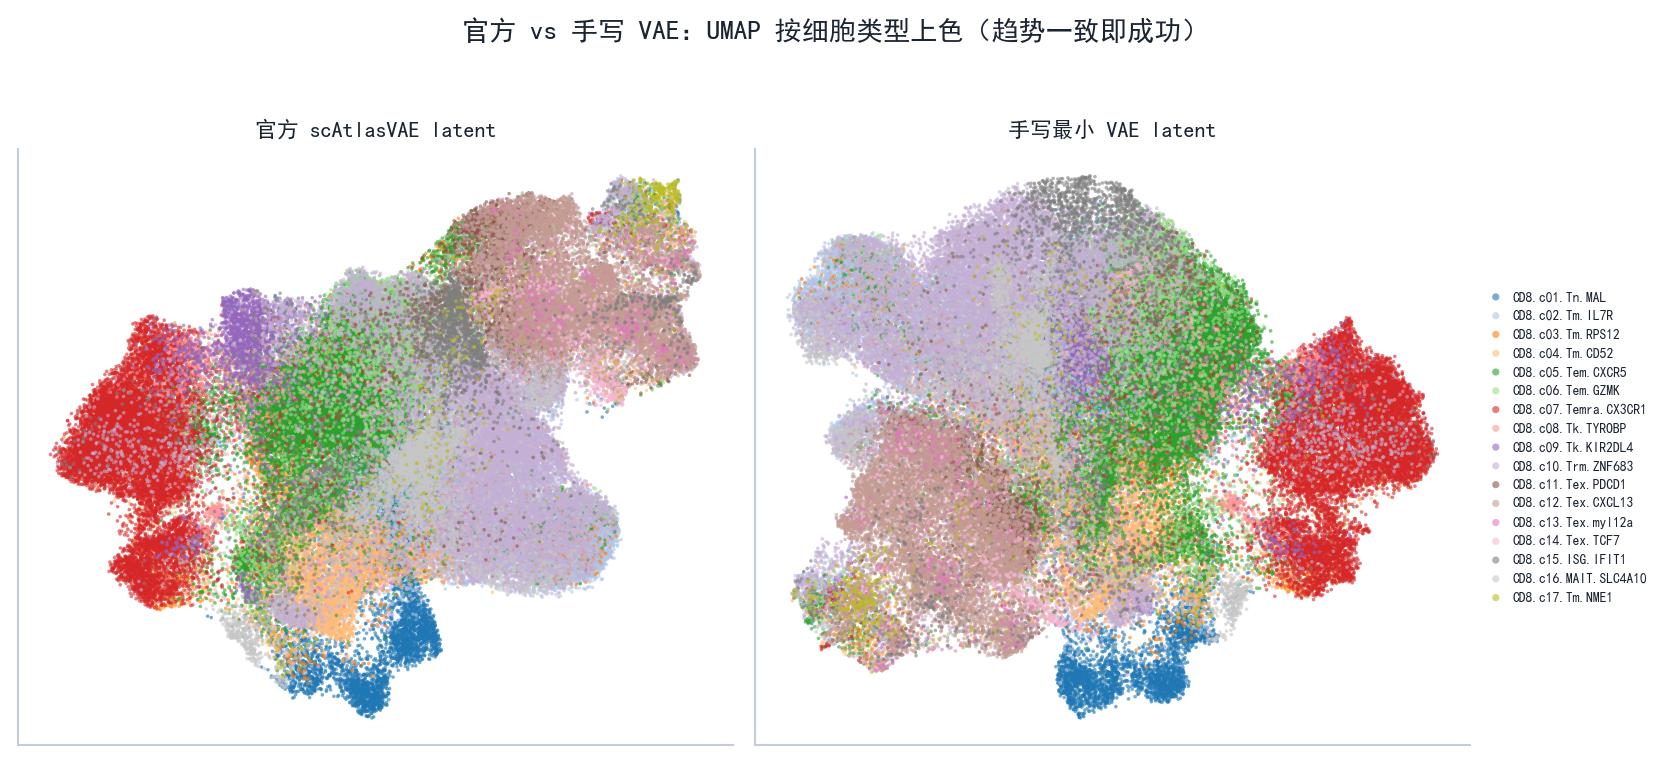
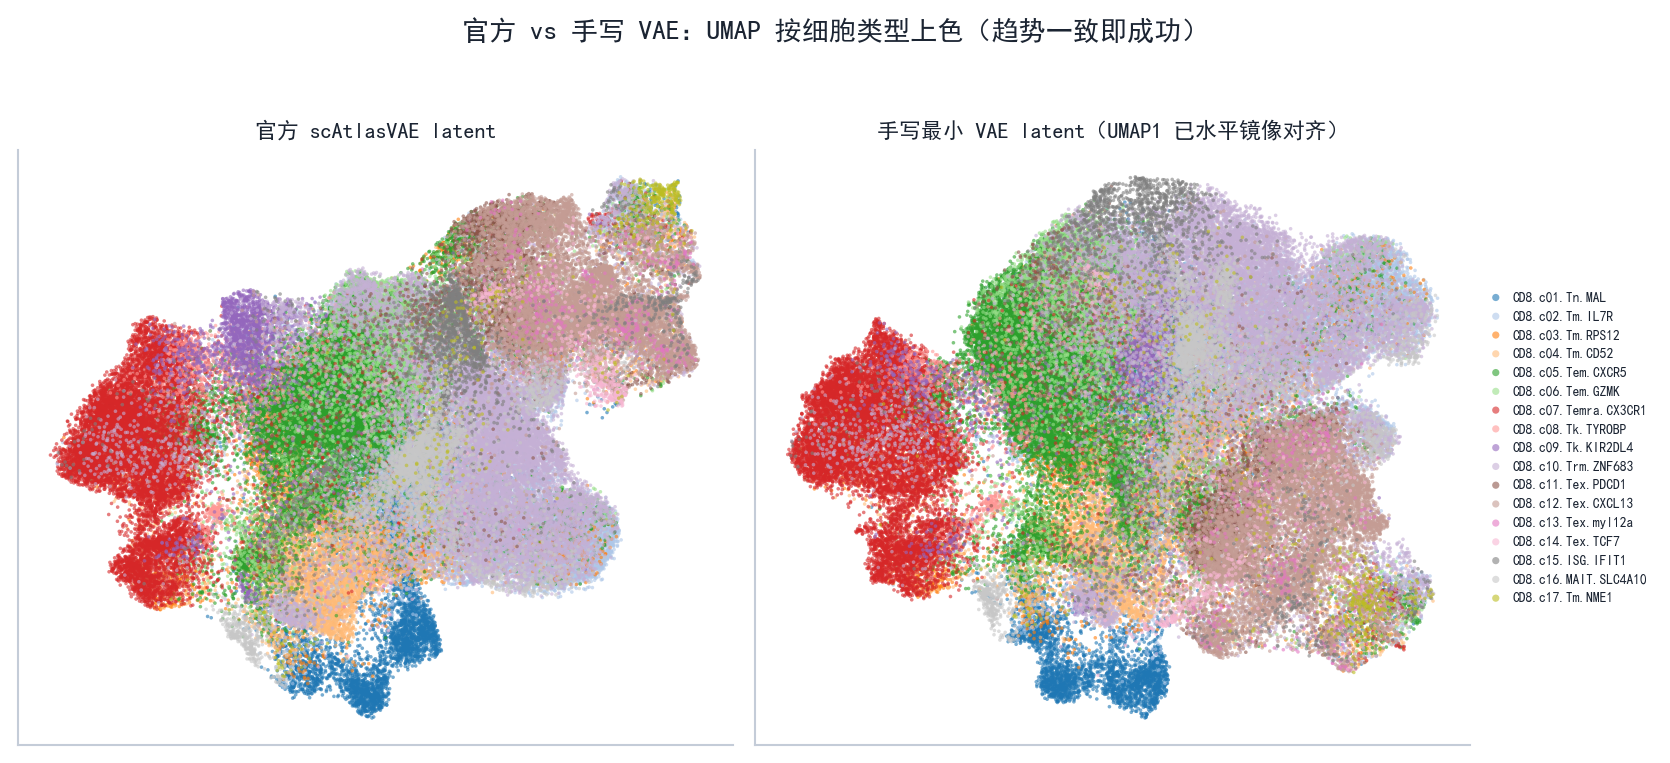
修正图文不符: UMAP镜像对齐 + 显存图y轴 + 批不变/Jaccard数字
- fig_phase3_umap_compare: 两套独立UMAP原本互为左右镜像(各亚型横坐标r≈-0.895),
  把手写面板UMAP1水平镜像对齐后红Temra两图同在左,图注改为如实描述(镜像无科学
  含义、判定看拓扑不看绝对左右);phase3/phase6图注同步校正,"高度一致"→"主要结构趋势一致"
- fig_phase5_scalability: 显存图y轴改为从0起+注释,避免把恒定~110MB的0.1MB抖动
  画成断崖假象
- phase6批不变探针: "漂移0.237"→"平均L2漂移0.007、max|Δz|=0.237"(与图6-9一致)
- 统一Jaccard=0.233(phase6原0.235)、随机基线≈k/(2N)≈1.4e-4

diff --git a/scripts/figgen/build_real.py b/scripts/figgen/build_real.py
@@ -281,11 +281,17 @@ def scalability():
     axes[0].set_xlabel("训练细胞数（千）", fontsize=10)
     axes[0].set_ylabel("固定 epoch 训练墙钟时间 (s)", fontsize=10)
     axes[0].set_title("训练时间 vs 细胞数", fontsize=12, fontweight="bold", pad=8)
-    # 右：显存
+    # 右：显存。**y 轴从 0 起**，避免把 ~110MB 的 0.1MB 抖动放大成"断崖"假象——
+    # 峰值显存实测几乎恒定（分批训练，GPU 上只驻留一个 minibatch），要如实画成一条平线。
     axes[1].plot(n, df["peak_gpu_mb"].values, "s-", color=PAL["accentB"]["ink"], lw=2.2, ms=7)
     axes[1].set_xlabel("训练细胞数（千）", fontsize=10)
     axes[1].set_ylabel("峰值显存 (MB)", fontsize=10)
     axes[1].set_title("峰值显存 vs 细胞数", fontsize=12, fontweight="bold", pad=8)
+    axes[1].set_ylim(0, float(df["peak_gpu_mb"].max()) * 1.5)
+    axes[1].annotate("几乎恒定 ~110 MB（分批训练，GPU 只驻留 1 个 minibatch）",
+                     xy=(n.mean(), float(df["peak_gpu_mb"].max())),
+                     xytext=(n.min(), float(df["peak_gpu_mb"].max()) * 1.18),
+                     fontsize=8.4, color=MUTED)
     for ax in axes:
         _clean(ax)
         ax.set_xlim(0, n.max() * 1.08)
@@ -320,13 +326,22 @@ def cross_atlas():
 
 
 def umap_compare():
-    """官方 vs 手写 VAE 的 UMAP 对照（按细胞类型上色）。"""
+    """官方 vs 手写 VAE 的 UMAP 对照（按细胞类型上色）。
+
+    注意 UMAP 朝向是任意的：两套 latent 各自独立跑 UMAP，实测两图"各亚型横坐标"
+    相关 r≈-0.895——即整张图互为**左右镜像**（红 Temra 官方在最左、手写在最右）。
+    镜像/旋转无科学含义，为便于并排对照，这里把手写面板的 UMAP1 取反（水平镜像回来），
+    让同一亚型落到同侧；判定"趋势一致"看的是拓扑邻接，不是绝对左右。
+    """
     import scanpy as sc
     a = sc.read_h5ad(os.path.join(DATA_DIR, "tcell_processed.h5ad"))
     ctype = a.obs["cell_type"].values
+    u_off = np.asarray(a.obsm["X_umap_official"])
+    u_mine = np.asarray(a.obsm["X_umap_mine"]).copy()
+    u_mine[:, 0] = -u_mine[:, 0]          # 水平镜像，抵消两套独立 UMAP 的任意左右朝向
     fig, ax = plt.subplots(1, 2, figsize=(11.2, 5.0))
-    _scatter_by(ax[0], a.obsm["X_umap_official"], ctype, "官方 scAtlasVAE latent")
-    _scatter_by(ax[1], a.obsm["X_umap_mine"], ctype, "手写最小 VAE latent", legend=True)
+    _scatter_by(ax[0], u_off, ctype, "官方 scAtlasVAE latent")
+    _scatter_by(ax[1], u_mine, ctype, "手写最小 VAE latent（UMAP1 已水平镜像对齐）", legend=True)
     fig.suptitle("官方 vs 手写 VAE：UMAP 按细胞类型上色（趋势一致即成功）",
                  fontsize=13, fontweight="bold", y=1.0)
     fig.tight_layout(rect=[0, 0, 1, 0.96])

diff --git a/reports/phase3_reimplement_vae.md b/reports/phase3_reimplement_vae.md
@@ -304,7 +304,7 @@ python phase3_train_and_compare.py
 
 ![官方 vs 手写 UMAP 对照（真实）](figures/fig_phase3_umap_compare.png)
 
-*图 3-4 — **真实对照**（按 17 个 CD8 亚型上色）。官方与手写最小版把**同一批主要亚型放到相似的区域**：红色 Temra 在右、绿色 Tem 居中、蓝色 Tn 在底、紫/淡紫的 Tk/Trm 在左上——**结构趋势高度一致**。kNN 邻域平均 Jaccard=**0.233**（~10.5 万全量；与 4 万子集时的 0.235 几乎一致，跨规模稳定）。*
+*图 3-4 — **真实对照**（按 17 个 CD8 亚型上色）。**UMAP 朝向是任意的**：两套 latent 各自独立跑 UMAP，实测两图各亚型横坐标相关 **r≈-0.895**，即原本互为**左右镜像**（红 Temra 官方在最左、手写在最右）；此处已把**手写面板的 UMAP1 水平镜像对齐**（镜像/旋转无科学含义，判定看拓扑邻接、不看绝对左右）。对齐后可见官方与手写把主要亚型放到**同侧相近区域**：红 Temra 同在**左端**、蓝 Tn 同在**底部**独立小叶、绿 Tem 居中、Tex 家族（棕/褐/粉）聚在**右侧**、淡紫 Trm 占中部大团——**主要结构趋势一致**。kNN 邻域平均 Jaccard=**0.233**（~10.5 万全量；与 4 万子集时的 0.235 接近，跨规模稳定）。*
 
 **记录区（本机实测，~10.5 万全量）**：
 ```
@@ -313,7 +313,7 @@ python phase3_train_and_compare.py
 UMAP 定性：主要亚型是否都分开=是（Tn/Tem/Temra/Tk/Trm/Tex 各成区，且与官方对应）   批次是否混开=是（继承 batch-invariant 编码器）
 ```
 
-> **怎么读 Jaccard=0.233（诚实）**：它比旧稿"示意"的 0.4–0.6 低。但 ① **远高于随机**（k=30、10.5 万细胞时随机期望≈30/104805≈3e-4），说明两套嵌入抓到的是**同一套结构**；② kNN Jaccard 是**很严格的局部指标**——只要两套实现对"谁是第 30 个近邻"稍有分歧就掉分，而**图 3-4 的定性一致才是复现成功的直接证据**；③ 手写版**刻意省掉了**类频率加权 CE、门控稀疏损失、FCLayer 式 batch 嵌入、验证/早停等（见 §11 差异清单）——这些都会让局部邻域与官方产生偏差。判成功看**趋势/结构一致**（[总纲](00_overview_and_learning_map.md)），这一条达成了。
+> **怎么读 Jaccard=0.233（诚实）**：它比旧稿"示意"的 0.4–0.6 低。但 ① **远高于随机**（k=30、10.5 万细胞时两组随机 30-NN 的期望 Jaccard≈k/(2N)≈30/(2·104805)≈1.4e-4），说明两套嵌入抓到的是**同一套结构**；② kNN Jaccard 是**很严格的局部指标**——只要两套实现对"谁是第 30 个近邻"稍有分歧就掉分，而**图 3-4 的定性一致才是复现成功的直接证据**；③ 手写版**刻意省掉了**类频率加权 CE、门控稀疏损失、FCLayer 式 batch 嵌入、验证/早停等（见 §11 差异清单）——这些都会让局部邻域与官方产生偏差。判成功看**趋势/结构一致**（[总纲](00_overview_and_learning_map.md)），这一条达成了。
 
 > **补一个定量背书（阶段 5 · E4）**：光有"定性一致 + Jaccard"还不够硬。[阶段 5](phase5_deeper_validation.md) 把手写版产出的 `X_minimal` 放上**和官方同一把 scib-metrics 标尺**打分（~10.5 万全量、PCR 基线已修）：**总分 0.406，落在未校正 PCA(0.400) 与 scVI(0.416) 之间、约等于无监督 scAtlasVAE(0.404)**。一个刻意最小化的手写实现能达到"无监督整合 VAE"同档，是"论文公式→代码翻译对了"最直接的量化证据。
 

diff --git a/reports/phase6_final_report.md b/reports/phase6_final_report.md
@@ -100,7 +100,7 @@ flowchart LR
 
 ![官方 vs 手写 UMAP](figures/fig_phase3_umap_compare.png)
 
-*图 6-6 — 官方 vs 手写：UMAP 把同一批主要亚型放到相似区域（红 Temra 在右、绿 Tem 居中、蓝 Tn 在底），**结构趋势高度一致**；kNN 邻域 Jaccard=0.235（远高于随机 ~7e-4；严格局部指标偏低，定性一致才是成功的直接证据，详见 [阶段 3 §10](phase3_reimplement_vae.md)）。*
+*图 6-6 — 官方 vs 手写：UMAP 把主要亚型放到相似区域（红 Temra 在左、绿 Tem 居中、蓝 Tn 在底、Tex 家族在右），**主要结构趋势一致**。两套 latent 各自独立跑 UMAP、原本互为**左右镜像**（实测各亚型横坐标相关 r≈-0.895），图中手写面板 UMAP1 已水平镜像对齐——判定看拓扑邻接、不看绝对左右。kNN 邻域 Jaccard=0.233（远高于随机 ~1.4e-4；严格局部指标偏低，定性一致才是成功的直接证据，详见 [阶段 3 §10](phase3_reimplement_vae.md)）。*
 
 **「我的实现 vs 原实现」差异清单**（节选，详见 [阶段 3 §11](phase3_reimplement_vae.md)）：单分类头 vs 多头、固定 `gene-cell` 离散度、仅 MLP 编码器、未实现 MMD/latent-constraint/多层级——每条都是有依据的范围削减。
 
@@ -138,7 +138,7 @@ flowchart LR
 
 **② 监督 vs 无监督（复现 Ext. Data Fig. 2a 核心论点）**：补上无监督柱后——监督版(0.435) 明显最高（批次校正+生物保留两项皆最高）；无监督(0.404) ≈ PCA、略低于 scVI(0.416)，说明 scAtlasVAE 相对 scVI 的优势来自半监督分类头（并入 §4 四方表；同时修了 PCR 基线 bug，见 §4）。
 
-**③ 批不变编码器实证探针**：给编码器喂打乱的 batch，scAtlasVAE 潜向量 **Δz≡0**（逐元素精确为 0，坐实"结构上不吃 batch"）。附带发现：scVI 默认 `encode_covariates=False`，编码器其实也不吃 batch，仅开 `=True` 才 batch-variant（漂移 0.237）——主动报告了这个与论文对比表字面不完全一致的细节。
+**③ 批不变编码器实证探针**：给编码器喂打乱的 batch，scAtlasVAE 潜向量 **Δz≡0**（逐元素精确为 0，坐实"结构上不吃 batch"）。附带发现：scVI 默认 `encode_covariates=False`，编码器其实也不吃 batch，仅开 `=True` 才 batch-variant（平均 L2 漂移 0.007、max|Δz|=0.237）——主动报告了这个与论文对比表字面不完全一致的细节。
 
 ![批不变探针](figures/fig_phase5_invariance.png)
 